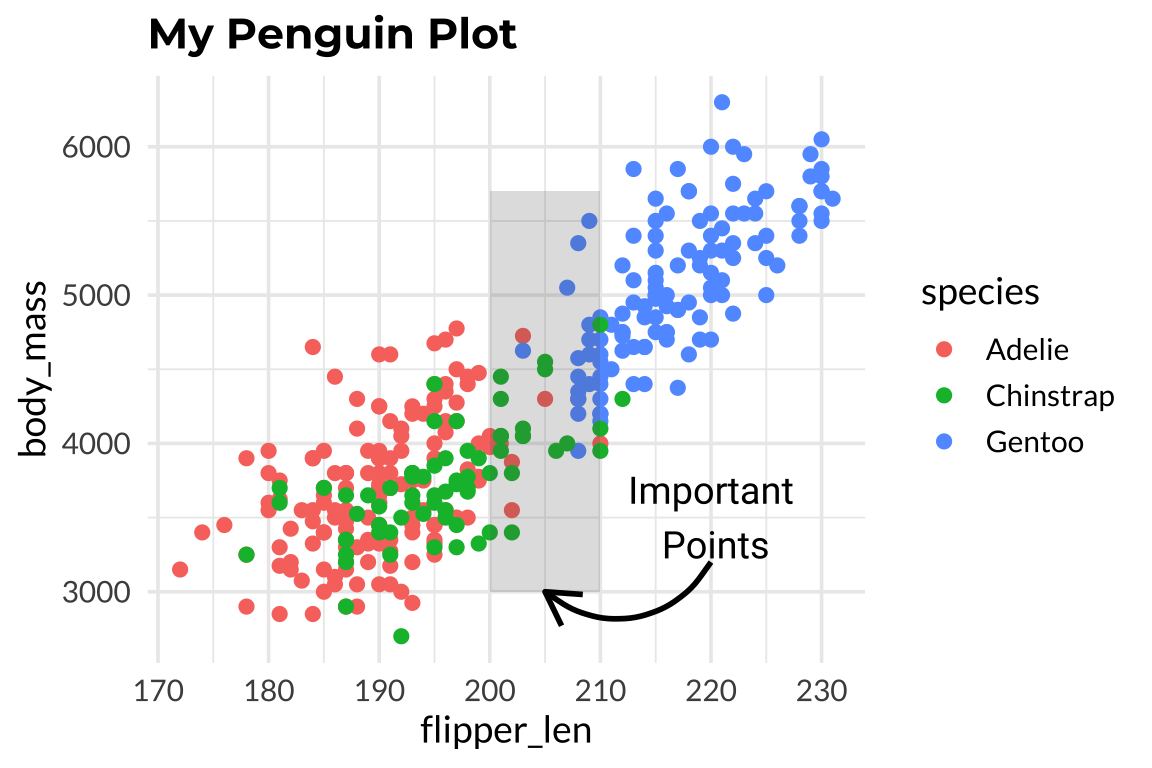
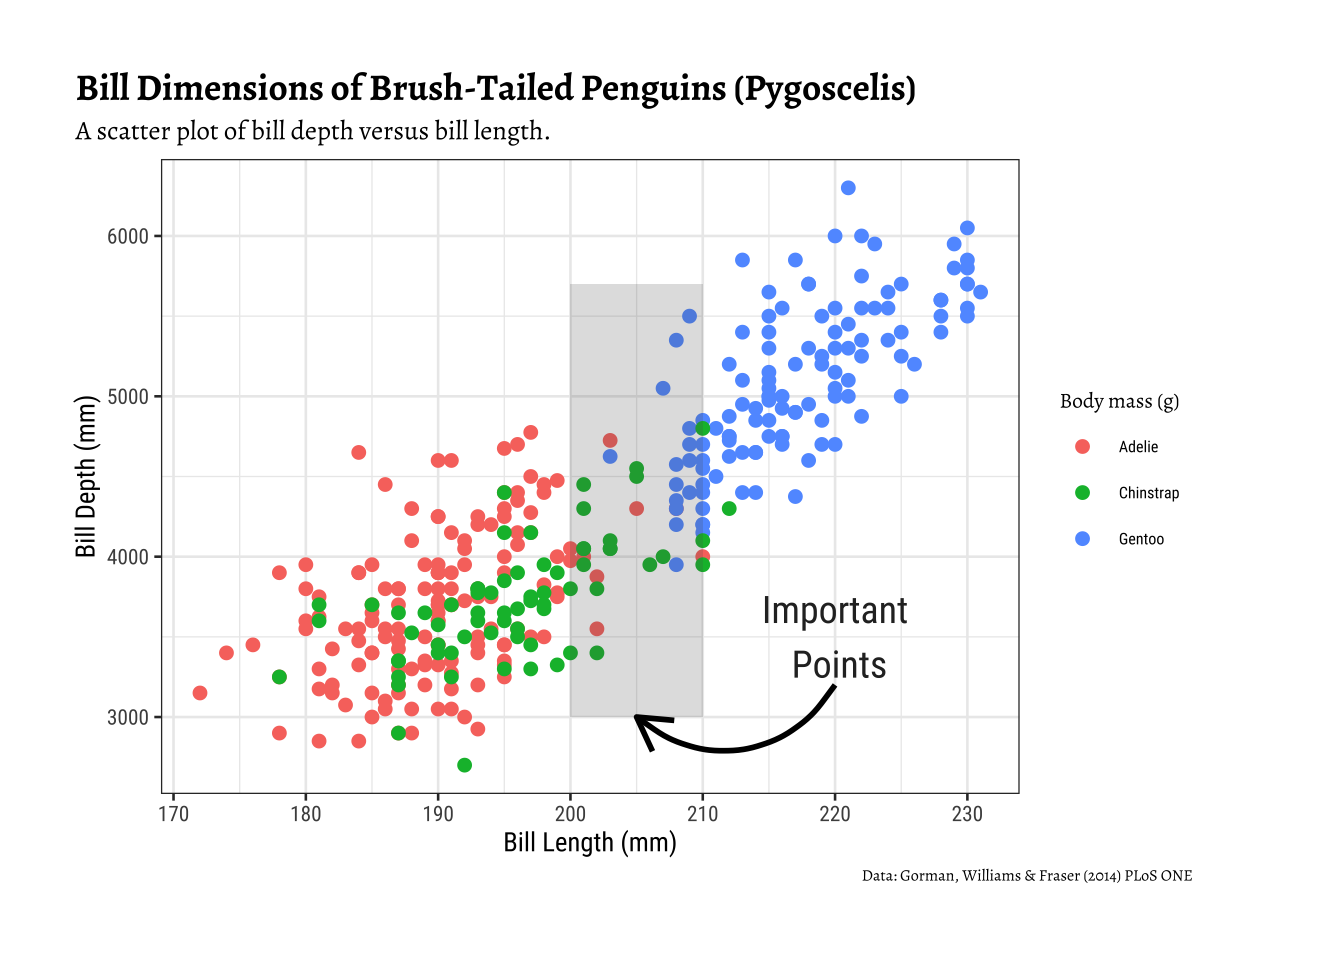
Improvements on _setup.qmd

diff --git a/_site/classwork/Day1/index.html b/_site/classwork/Day1/index.html
@@ -228,15 +228,25 @@ pre > code.sourceCode > span > a:first-child::before { text-decoration: underlin
 <div class="cell">
 <div class="code-copy-outer-scaffold"><div class="sourceCode cell-code" id="cb4"><pre class="sourceCode r code-with-copy"><code class="sourceCode r"><span id="cb4-1"><a href="#cb4-1" aria-hidden="true" tabindex="-1"></a>penguins <span class="sc">%&gt;%</span> <span class="fu">drop_na</span>() <span class="sc">%&gt;%</span> </span>
 <span id="cb4-2"><a href="#cb4-2" aria-hidden="true" tabindex="-1"></a>  <span class="fu">gf_point</span>(body_mass <span class="sc">~</span> flipper_len, <span class="at">colour =</span> <span class="sc">~</span> species, <span class="at">size =</span> <span class="dv">2</span>) <span class="sc">%&gt;%</span> </span>
-<span id="cb4-3"><a href="#cb4-3" aria-hidden="true" tabindex="-1"></a>  <span class="fu">gf_labs</span>(<span class="at">title =</span> <span class="st">"My Penguin Plot"</span>) <span class="sc">%&gt;%</span> </span>
+<span id="cb4-3"><a href="#cb4-3" aria-hidden="true" tabindex="-1"></a>  <span class="fu">gf_labs</span>(<span class="at">title =</span> <span class="st">"My Penguin Plot"</span>, <span class="at">x =</span> <span class="st">"Flipper Length"</span>, <span class="at">y =</span> <span class="st">"Body Mass (gms)"</span>) <span class="sc">%&gt;%</span> </span>
 <span id="cb4-4"><a href="#cb4-4" aria-hidden="true" tabindex="-1"></a>  <span class="fu">gf_refine</span>(<span class="fu">annotate</span>(<span class="at">geom =</span> <span class="st">"text"</span>, <span class="at">label =</span> <span class="st">"Important</span><span class="sc">\n</span><span class="st"> Points"</span>, <span class="at">x =</span> <span class="dv">220</span>, <span class="at">y =</span> <span class="dv">3500</span>, <span class="at">size =</span> <span class="dv">5</span>),</span>
 <span id="cb4-5"><a href="#cb4-5" aria-hidden="true" tabindex="-1"></a>            <span class="fu">annotate</span>(<span class="at">geom =</span> <span class="st">"rect"</span>, <span class="at">xmin =</span> <span class="dv">200</span>, <span class="at">xmax =</span> <span class="dv">210</span>, <span class="at">ymin =</span> <span class="dv">3000</span>, <span class="at">ymax =</span> <span class="dv">5700</span>, <span class="at">alpha =</span> .<span class="dv">2</span>),</span>
 <span id="cb4-6"><a href="#cb4-6" aria-hidden="true" tabindex="-1"></a>            <span class="fu">annotate</span>(<span class="st">'curve'</span>,<span class="at">x =</span> <span class="dv">220</span>, <span class="at">y =</span> <span class="dv">3200</span>,<span class="at">yend =</span> <span class="dv">3000</span>,<span class="at">xend =</span> <span class="dv">205</span>,</span>
-<span id="cb4-7"><a href="#cb4-7" aria-hidden="true" tabindex="-1"></a>    <span class="at">linewidth =</span> <span class="dv">1</span>, <span class="at">curvature =</span> <span class="sc">-</span><span class="fl">0.5</span>, <span class="at">arrow =</span> <span class="fu">arrow</span>(<span class="at">length =</span> <span class="fu">unit</span>(<span class="fl">0.5</span>, <span class="st">'cm'</span>))))</span></code></pre></div><button title="Copy to Clipboard" class="code-copy-button"><i class="bi"></i></button></div>
+<span id="cb4-7"><a href="#cb4-7" aria-hidden="true" tabindex="-1"></a>    <span class="at">linewidth =</span> <span class="dv">1</span>, <span class="at">curvature =</span> <span class="sc">-</span><span class="fl">0.5</span>, <span class="at">arrow =</span> <span class="fu">arrow</span>(<span class="at">length =</span> <span class="fu">unit</span>(<span class="fl">0.5</span>, <span class="st">'cm'</span>)))) <span class="sc">%&gt;%</span></span>
+<span id="cb4-8"><a href="#cb4-8" aria-hidden="true" tabindex="-1"></a>  </span>
+<span id="cb4-9"><a href="#cb4-9" aria-hidden="true" tabindex="-1"></a>  <span class="do">## Labels and Title</span></span>
+<span id="cb4-10"><a href="#cb4-10" aria-hidden="true" tabindex="-1"></a>  <span class="fu">gf_labs</span>(</span>
+<span id="cb4-11"><a href="#cb4-11" aria-hidden="true" tabindex="-1"></a>    <span class="at">title =</span> <span class="st">'Bill Dimensions of Brush-Tailed Penguins (Pygoscelis)'</span>,</span>
+<span id="cb4-12"><a href="#cb4-12" aria-hidden="true" tabindex="-1"></a>    <span class="at">subtitle =</span> <span class="st">'A scatter plot of bill depth versus bill length.'</span>,</span>
+<span id="cb4-13"><a href="#cb4-13" aria-hidden="true" tabindex="-1"></a>    <span class="at">caption =</span> <span class="st">'Data: Gorman, Williams &amp; Fraser (2014) PLoS ONE'</span>,</span>
+<span id="cb4-14"><a href="#cb4-14" aria-hidden="true" tabindex="-1"></a>    <span class="at">x =</span> <span class="st">'Bill Length (mm)'</span>, </span>
+<span id="cb4-15"><a href="#cb4-15" aria-hidden="true" tabindex="-1"></a>    <span class="at">y =</span> <span class="st">'Bill Depth (mm)'</span>,</span>
+<span id="cb4-16"><a href="#cb4-16" aria-hidden="true" tabindex="-1"></a>    <span class="at">color =</span> <span class="st">'Body mass (g)'</span></span>
+<span id="cb4-17"><a href="#cb4-17" aria-hidden="true" tabindex="-1"></a>  ) </span></code></pre></div><button title="Copy to Clipboard" class="code-copy-button"><i class="bi"></i></button></div>
 <div class="cell-output-display">
 <div>
 <figure class="figure">
-<p><img src="index_files/figure-html/unnamed-chunk-2-1.png" class="img-fluid figure-img" width="576"></p>
+<p><img src="index_files/figure-html/unnamed-chunk-2-1.png" class="img-fluid figure-img" width="672"></p>
 </figure>
 </div>
 </div>

diff --git a/_site/index.html b/_site/index.html
@@ -380,7 +380,7 @@ Author
 </thead>
 <tbody class="list">
 
-<tr data-index="0" data-categories="bmV3cw==" data-listing-date-sort="1727807400000" data-listing-file-modified-sort="1788690274847" data-listing-date-modified-sort="NaN" data-listing-reading-time-sort="1" data-listing-word-count-sort="181" data-listing-title-sort="Day1" data-listing-filename-sort="index.qmd">
+<tr data-index="0" data-categories="bmV3cw==" data-listing-date-sort="1727807400000" data-listing-file-modified-sort="1788692890380" data-listing-date-modified-sort="NaN" data-listing-reading-time-sort="2" data-listing-word-count-sort="266" data-listing-title-sort="Day1" data-listing-filename-sort="index.qmd">
 <td>
 <span class="listing-date">Oct 2, 2024</span>
 </td>
